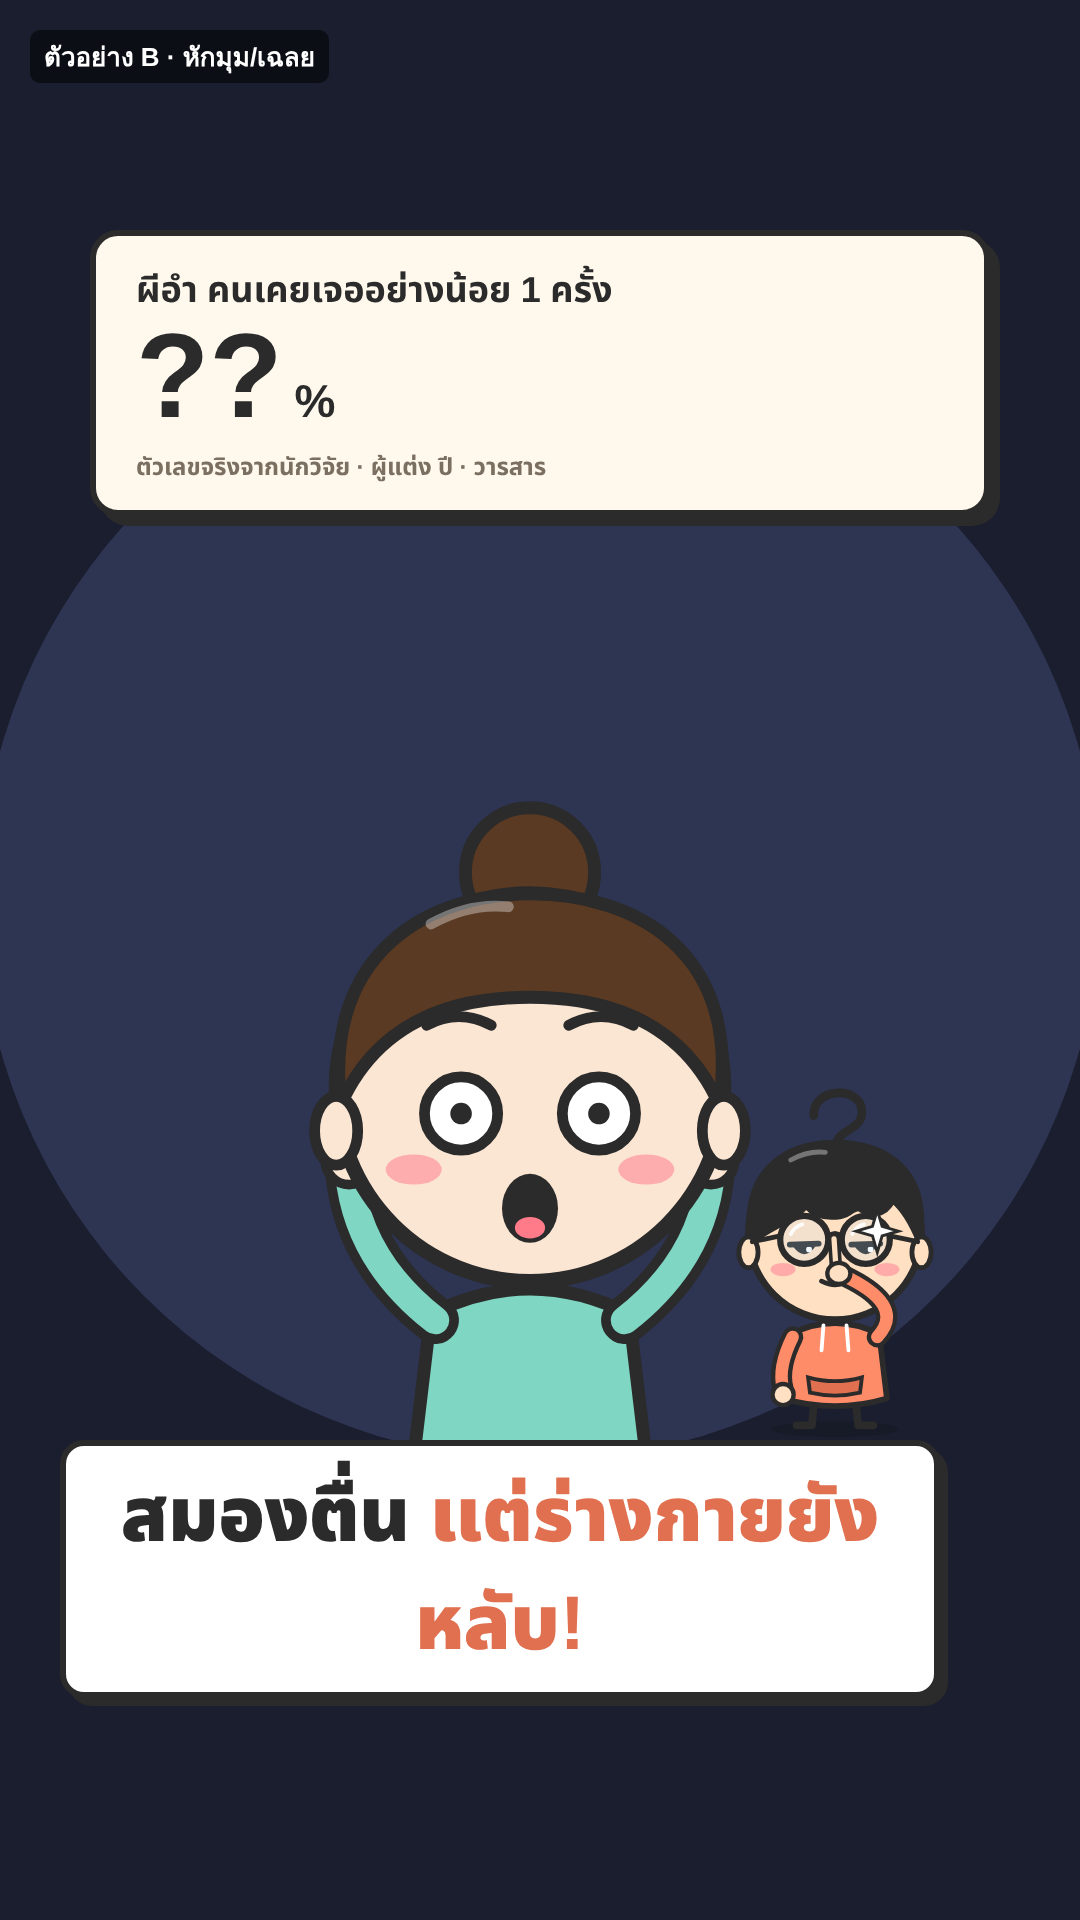
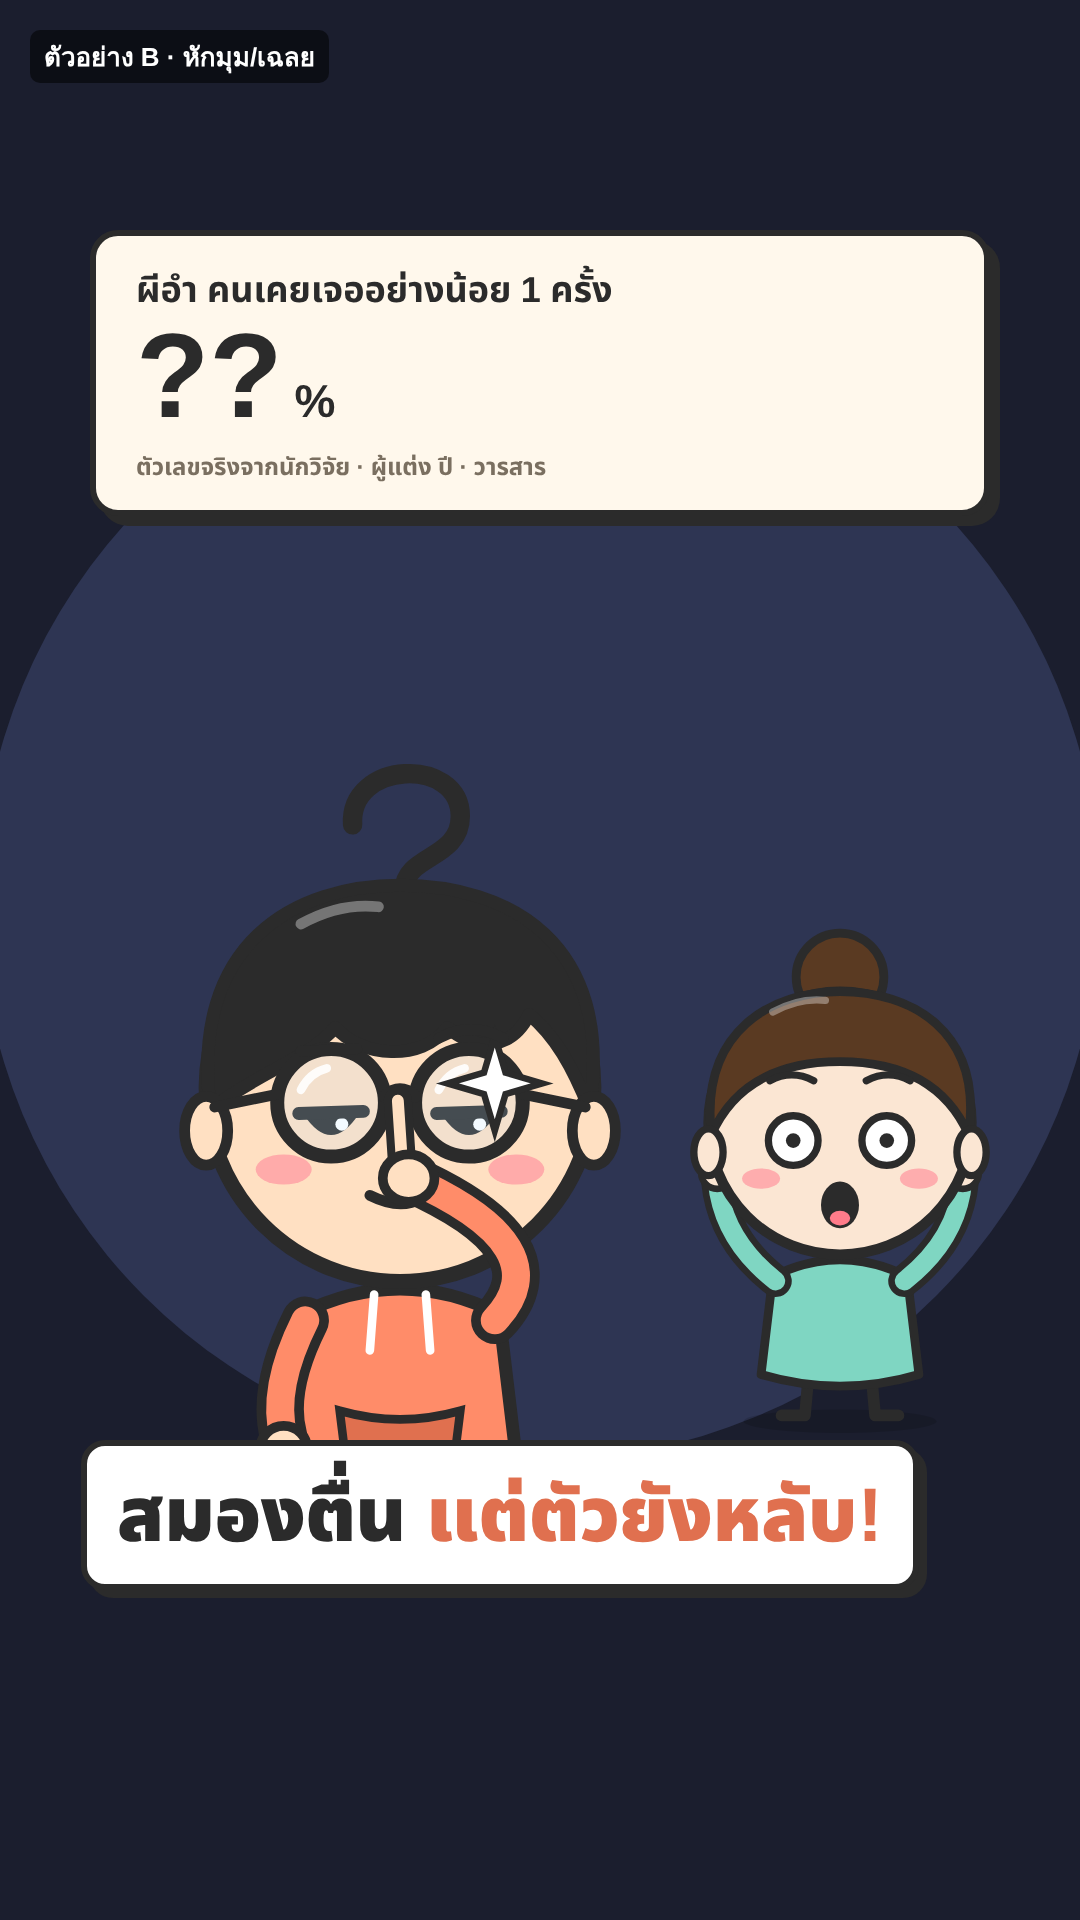
Story mockups: Nong as protagonist, supporting cast around
Claude-Session: https://claude.ai/code/session_01DyCHHk74skRVQ6M3ophgj1

Changed region(s): [[0.0611, 0.375, 0.9167, 0.9062]]

diff --git a/branding/story-mockup.html b/branding/story-mockup.html
@@ -36,10 +36,10 @@ function roomNight(){
      <rect x="640" y="430" width="320" height="400" rx="16" fill="#4F6FA8"/>
      <path d="M800 430 V830 M640 630 H960" fill="none"/>
      <circle cx="880" cy="520" r="44" fill="#FFF3C4"/>
-     <rect x="80" y="1090" width="640" height="200" rx="30" fill="#7A86B8"/>
-     <rect x="70" y="930" width="330" height="200" rx="70" fill="#FFF8EC"/>
-     <path d="M100 990 Q235 955 370 990" fill="none" stroke-width="5" opacity=".35"/>
-     <path d="M70 1290 H730" />
+     <rect x="160" y="1090" width="600" height="200" rx="30" fill="#7A86B8"/>
+     <rect x="150" y="930" width="330" height="200" rx="70" fill="#FFF8EC"/>
+     <path d="M180 990 Q315 955 450 990" fill="none" stroke-width="5" opacity=".35"/>
+     <path d="M150 1290 H770" />
      <rect x="760" y="1040" width="130" height="250" rx="12" fill="#5A4A6A"/>
      <rect x="790" y="1000" width="70" height="44" rx="8" fill="#FFD84D"/>
    </g>
@@ -51,26 +51,22 @@ const put=(svg,x,y,w)=>`<div class="ch" style="left:${x}px;top:${y}px;width:${w}
 window.render=function(v){
   const f=document.getElementById("f");
   if(v==="a"){
-    // ฉากเรื่อง: รูมเมทนอน (ตัวละครใหม่) + เงาตัวหลอน (ghost) + การ์ดนาฬิกา + น้องสงสัยมุมจอ
-    const sleeper=kid({skin:"tan",hair:"short",hairColor:"#3A2A20",top:"#4F6FA8",gl:"none",ah:"none",eye:"sleep",brow:"none",mo:"flat",pocket:false,strings:false});
+    // ฉากเล่าเรื่อง: น้องสงสัยเป็นตัวเอก นอนบนหมอน + เงาหลอนข้างเตียง (ตัวละครเสริม) + นาฬิกา
+    const sleeper=kid({eye:"sleep",brow:"worry",mo:"wobble",ah:"zig"});
     const ghost=kid({skin:"ghost",hair:"long",hairColor:"#1B1B22",top:"#3B3446",gl:"none",ah:"none",eye:"creepy",brow:"none",mo:"flat",pocket:false,strings:false});
-    const nong=kid({gl:"down",eye:"side",brow:"none",mo:"flatlow",ah:"droop"});
-    // คนนอน: หมุนทั้งตัวด้วย CSS (ไม่หมุนใน SVG) หัวจะไม่ถูกตัด แล้วห่มผ้าห่มทับตัว
-    const lying=`<div class="ch" style="left:60px;top:735px;width:400px;height:616px;transform:rotate(-90deg)">${sleeper}</div>`;
-    const blanket=`<svg width="1080" height="1920" style="position:absolute;inset:0"><g transform="translate(40 0)"><path d="M300 990 Q330 960 380 965 L680 975 Q706 978 706 1005 L700 1180 Q698 1200 676 1200 L310 1200 Q290 1198 292 1176Z" fill="#9AA6D8" stroke="#2B2B2B" stroke-width="8" stroke-linejoin="round"/><path d="M300 1012 Q490 1000 700 1015" fill="none" stroke="#2B2B2B" stroke-width="6"/><path d="M420 1060 L430 1180 M560 1065 L566 1180" stroke="#2B2B2B" stroke-width="4" opacity=".3"/></g></svg>`;
-    f.innerHTML=roomNight()+lying+blanket+put(ghost,640,600,430)
+    const lying=`<div class="ch" style="left:140px;top:735px;width:400px;height:616px;transform:rotate(-90deg)">${sleeper}</div>`;
+    const blanket=`<svg width="1080" height="1920" style="position:absolute;inset:0"><g transform="translate(120 0) scale(.92 1)"><path d="M300 990 Q330 960 380 965 L680 975 Q706 978 706 1005 L700 1180 Q698 1200 676 1200 L310 1200 Q290 1198 292 1176Z" fill="#9AA6D8" stroke="#2B2B2B" stroke-width="8" stroke-linejoin="round"/><path d="M300 1012 Q490 1000 700 1015" fill="none" stroke="#2B2B2B" stroke-width="6"/><path d="M420 1060 L430 1180 M560 1065 L566 1180" stroke="#2B2B2B" stroke-width="4" opacity=".3"/></g></svg>`;
+    f.innerHTML=roomNight()+lying+blanket+put(ghost,690,600,400)
       +`<div class="chip"><b>03:00</b><span>ตีสาม</span></div>`
-      +`<div class="nong">${nong}</div><div class="bubble">เอ๊ะ…</div>`
-      +`<div class="cap"><div>ตื่นมาตัว<span class="y">ขยับไม่ได้</span></div></div>`
-      +`<div class="tag">ตัวอย่าง A · ฉากเล่าเรื่อง</div>`;
+      +`<div class="cap"><div>ตื่นมาแล้ว <span class="y">ขยับไม่ได้!</span></div></div>`
+      +`<div class="tag">ตัวอย่าง A · น้องสงสัยเป็นตัวเอก</div>`;
   } else {
-    // ฉากเฉลย: การ์ดตัวเลข + ตัวละครใหม่ + น้องสงสัยดันแว่นมุมจอ
+    // ฉากหักมุม/เฉลย: น้องสงสัยเต็มจอ ดันแว่น + การ์ดตัวเลข + เพื่อน (ตัวละครเสริม) ตกใจ
     const friend=kid({skin:"light",hair:"bun",hairColor:"#5A3A22",top:"#7FD6C2",gl:"none",ah:"none",eye:"shock",brow:"shock",mo:"shock",pocket:false,strings:false,arm:"up"});
     const nong=kid({eye:"cool",brow:"cool",mo:"smirk",arm:"left",push:1,gdy:-5,glint:1});
-    f.innerHTML=dark()+put(friend,250,700,560)
+    f.innerHTML=dark()+put(friend,650,860,380)+put(nong,120,700,560)
       +`<div class="card"><div class="k">ผีอำ คนเคยเจออย่างน้อย 1 ครั้ง</div><div class="n">??<small>%</small></div><div class="src">ตัวเลขจริงจากนักวิจัย · ผู้แต่ง ปี · วารสาร</div></div>`
-      +`<div class="nong">${nong}</div>`
-      +`<div class="cap"><div>สมองตื่น <span class="y">แต่ร่างกายยังหลับ!</span></div></div>`
+      +`<div class="cap"><div>สมองตื่น <span class="y">แต่ตัวยังหลับ!</span></div></div>`
       +`<div class="tag">ตัวอย่าง B · หักมุม/เฉลย</div>`;
   }
 };
